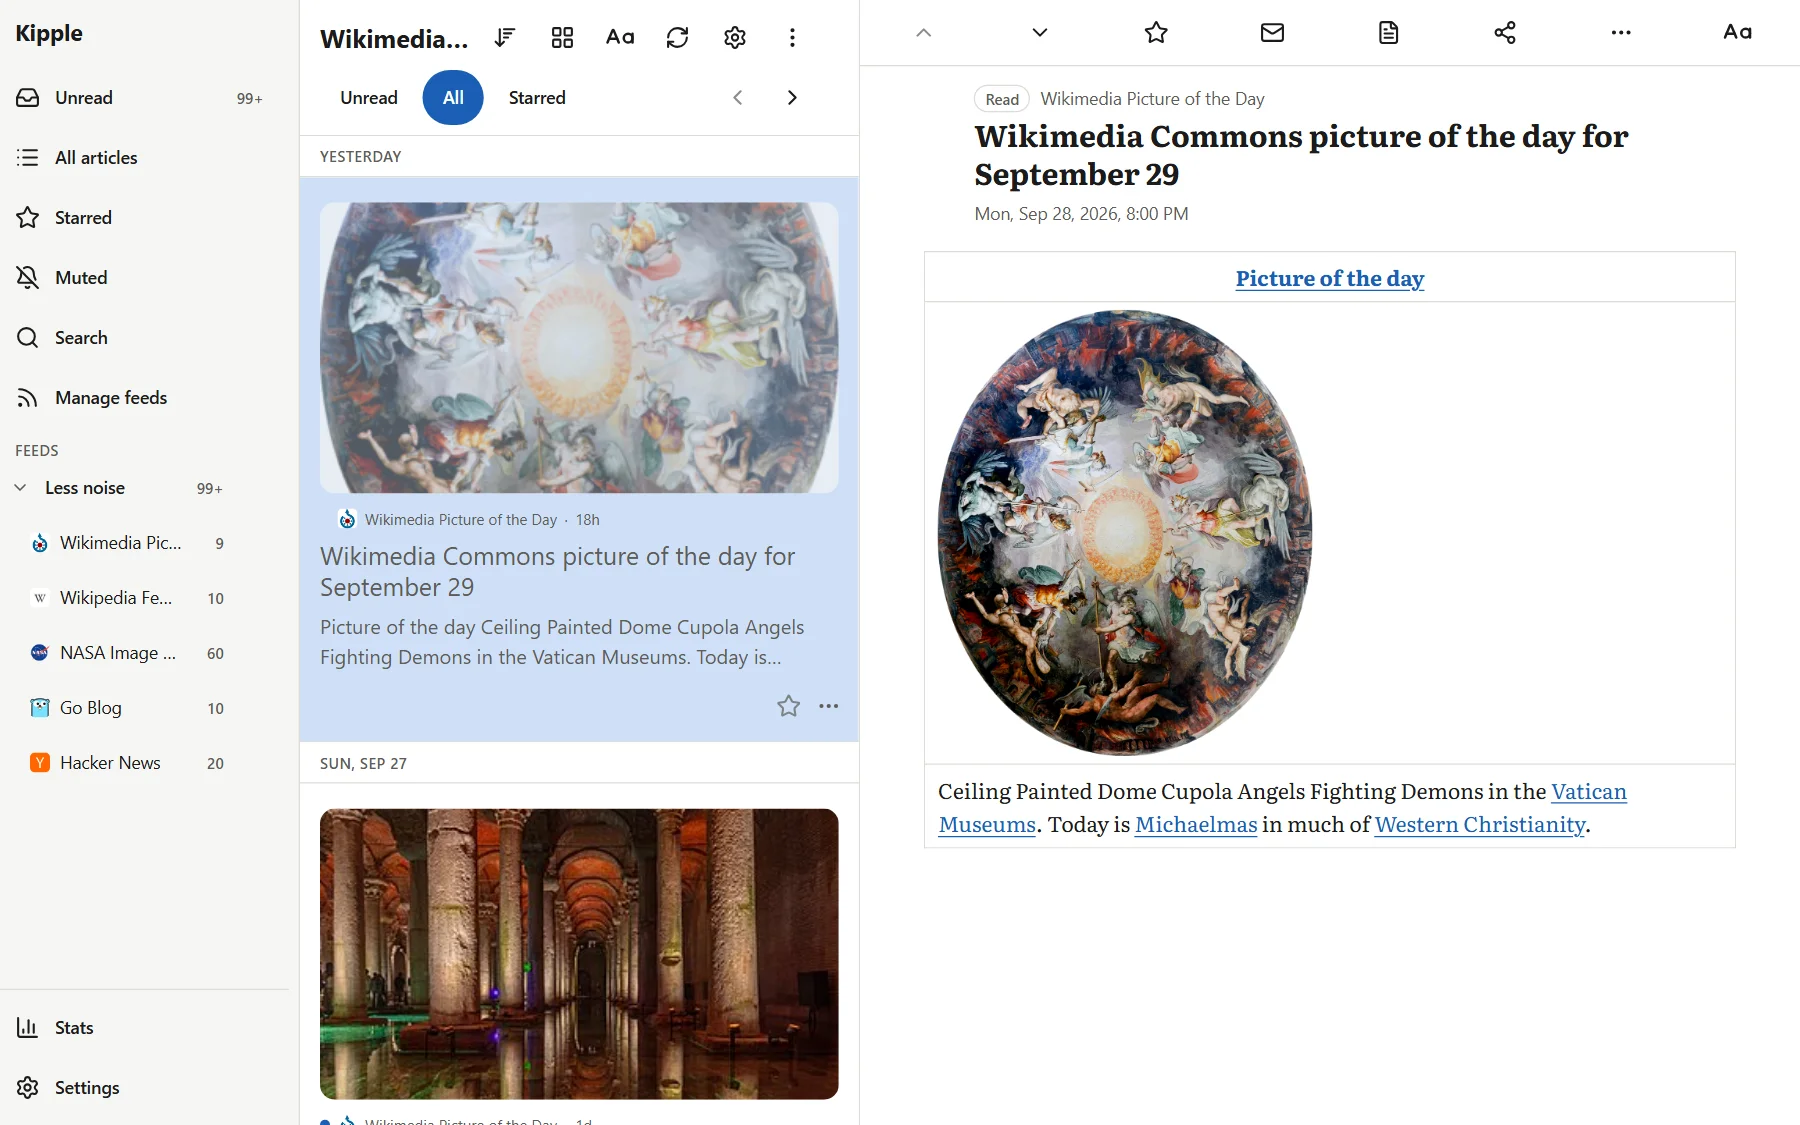
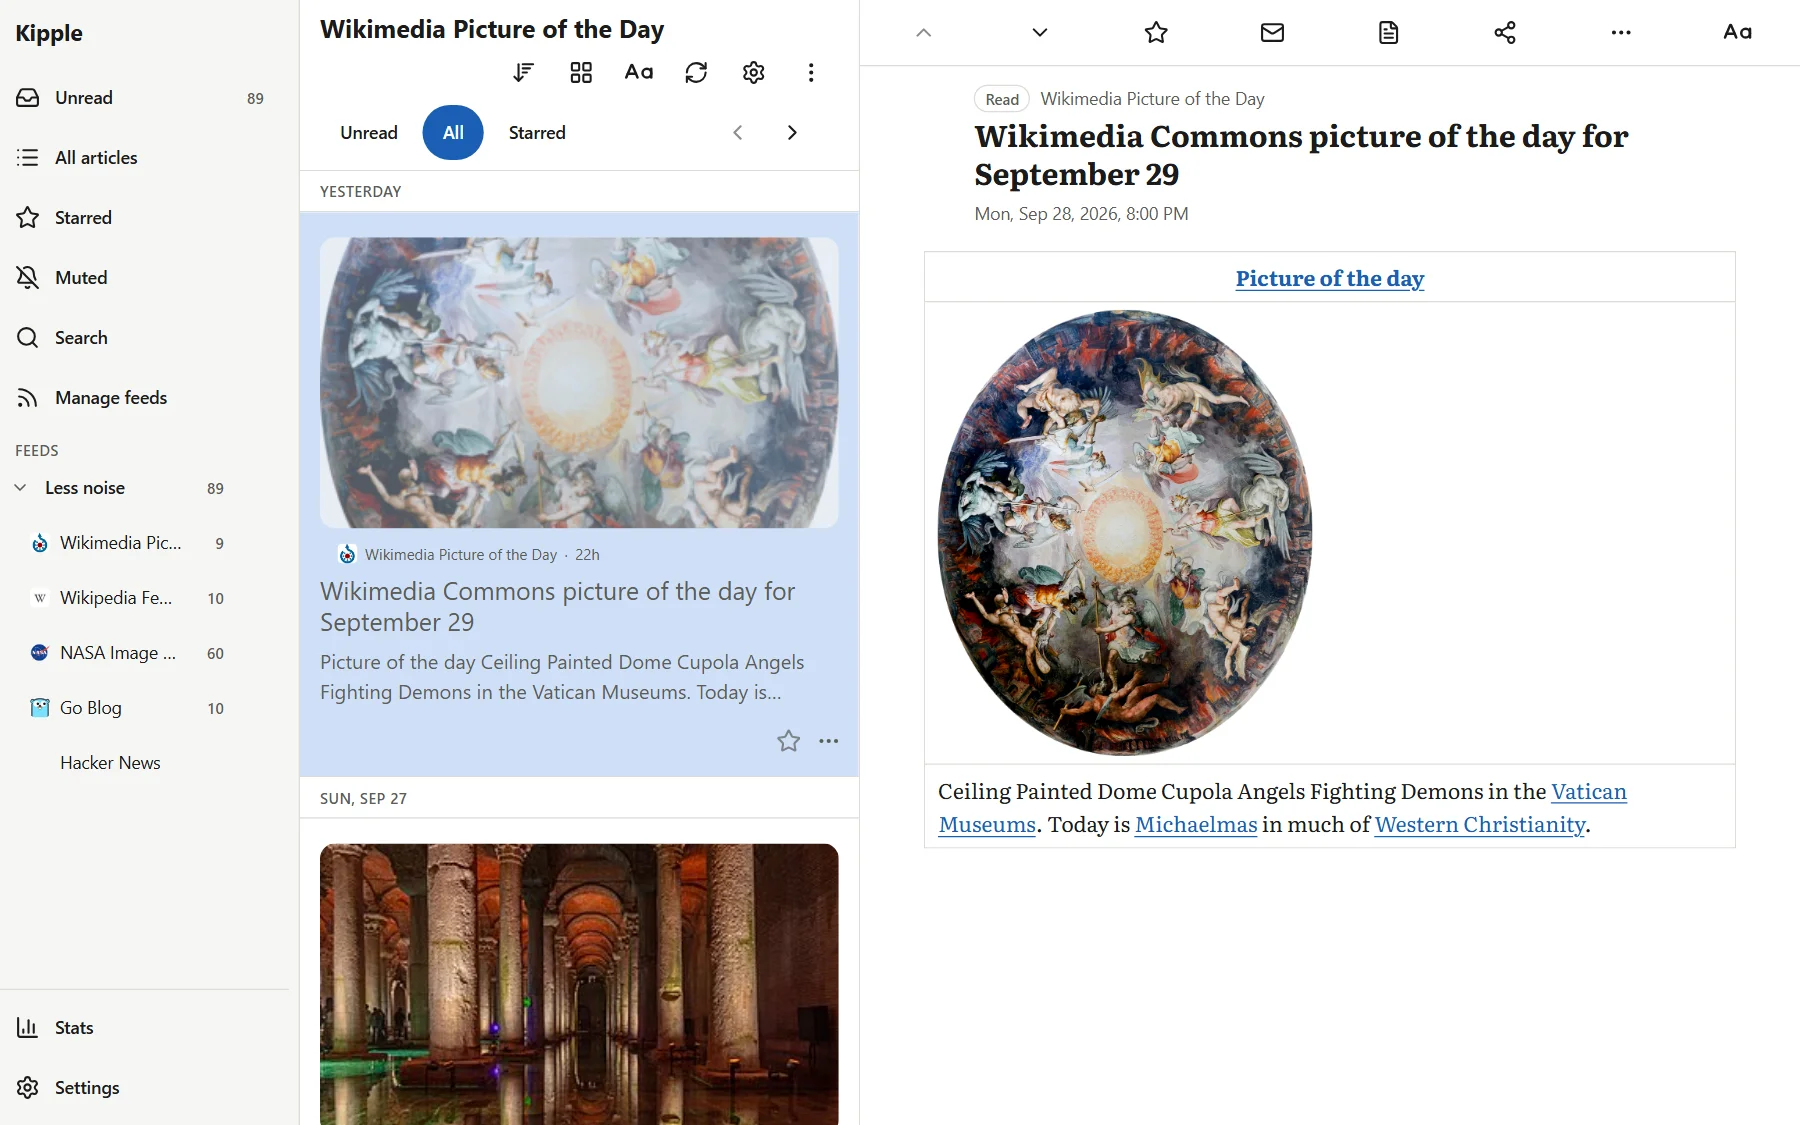
docs: v0.3.0-beta.3 status text, screenshots and social preview

diff --git a/index.html b/index.html
@@ -171,7 +171,7 @@ docker compose -f docker-compose.example.yml up -d kipple</code></pre>
   <section class="sect">
     <div class="wrap">
       <h2>Where it stands</h2>
-      <p class="status"><span class="mono">v0.3.0-beta.2</span> is the current build. Fetching, sync, the reading UI, the installable offline-capable app, and reading stats with a yearly Wrapped all run daily. Testing before 1.0 is under way. The diary, decisions and dead ends from building it are in <a href="https://github.com/WPTK/kipple-history">kipple-history</a>.</p>
+      <p class="status"><span class="mono">v0.3.0-beta.3</span> is the current build. Fetching, sync, the reading UI, the installable offline-capable app, and reading stats with a yearly Wrapped all run daily. Testing before 1.0 is under way. The diary, decisions and dead ends from building it are in <a href="https://github.com/WPTK/kipple-history">kipple-history</a>.</p>
     </div>
   </section>
 </main>

diff --git a/design-system/DESIGN-SYSTEM.md b/design-system/DESIGN-SYSTEM.md
@@ -259,7 +259,7 @@ for reduced motion. No other animation.
   by the app repo's `web/scripts/site-shots.mjs` (run at every release, `docs/RELEASING.md` step 12), after
   `KIPPLE_SEED_SET=site npm run seed`, which seeds Wikimedia Picture of the Day, Wikipedia Featured Article, NASA
   Image of the Day, Go Blog and Hacker News in a folder named "Less noise". Last captured 2026-09-29 at app commit
-  `0fa8450` (`v0.3.0-beta.2`). Desktop: a 1440 x 900 viewport at 1.25x, giving 1800 x 1125 directly. Phone: 390 x 844
+  `46da6a6` (`v0.3.0-beta.3`). Desktop: a 1440 x 900 viewport at 1.25x, giving 1800 x 1125 directly. Phone: 390 x 844
   at 1.5x, giving 585 x 1266. The list uses the device's default layout (Editorial). Light is the app's Paper scheme.
   Dark is the app following a dark system setting, which gives Midnight. Article shown: the Wikimedia Commons picture
   of the day for September 29 (the ceiling painting in the Vatican Museums). The WebP files are encoded by the browser
